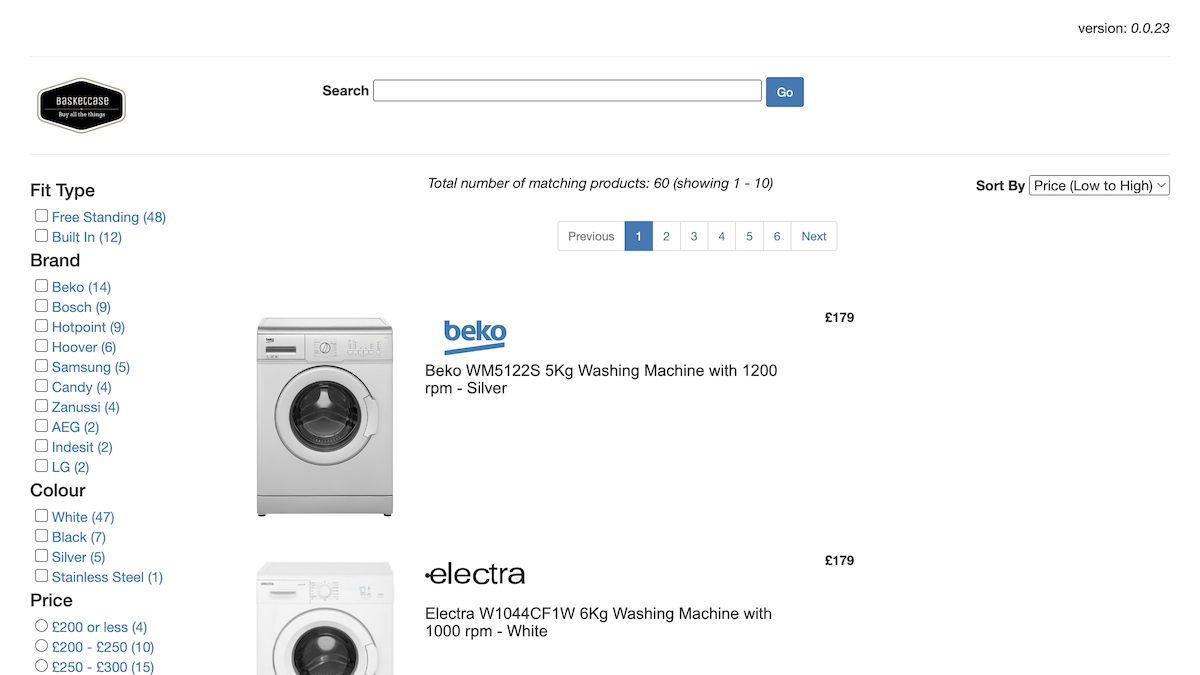
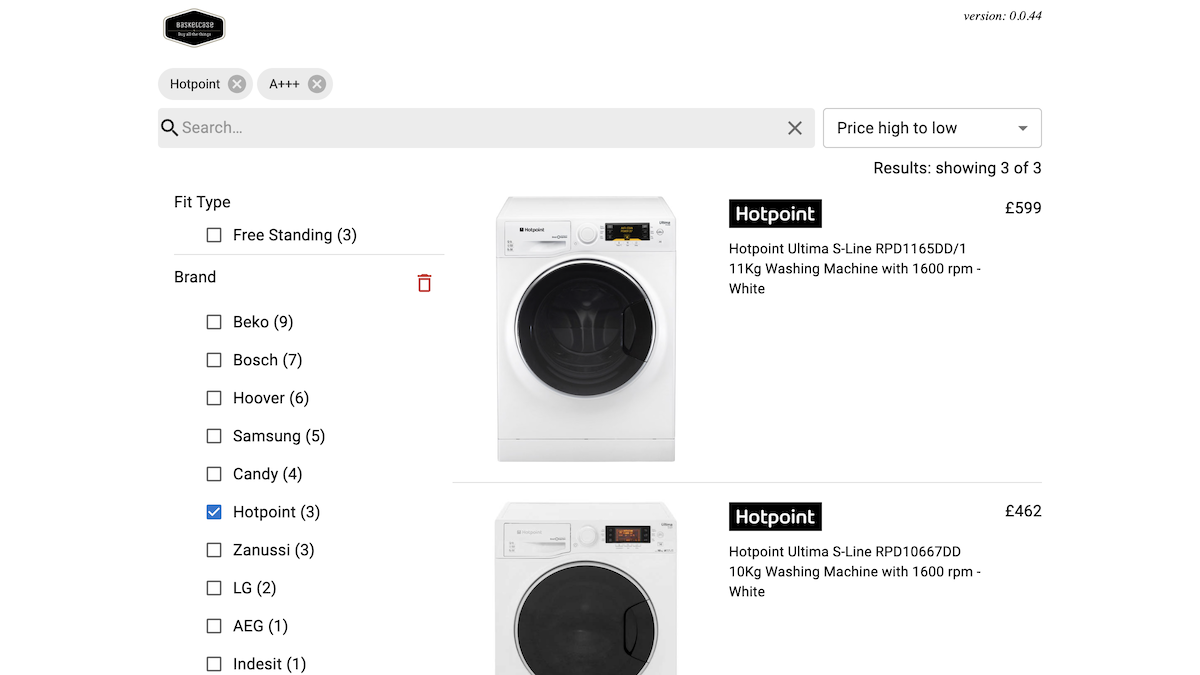
Update BasketCase to showcase basketcase-react primarily

diff --git a/src/data/basketcase.ts b/src/data/basketcase.ts
@@ -1,20 +1,40 @@
 export default {
   title: "Basket Case",
   repo: "BasketCase",
-  repoLink: "https://github.com/taylorjg/BasketCase",
-  website: "https://taylorjg.github.io/BasketCase",
+  repoLink: "https://github.com/taylorjg/basketcase-react",
+  website: "https://taylorjg.github.io/basketcase-react",
   seeAlso: [
     {
       url: "https://github.com/taylorjg/basketcase-serverless",
-      name: "Serverless Backend",
+      name: "Serverless back end",
+    },
+    {
+      url: "https://github.com/taylorjg/BasketCase",
+      name: "Original AngularJS 1.x front end",
     },
   ],
-  technologies: ["JavaScript", "AngularJS 1.x", "Elasticsearch"],
+  technologies: [
+    "JavaScript",
+    "React",
+    "Vite and Vitest",
+    "Cypress",
+    "GitHub Actions",
+    "Node.js",
+    "Elasticsearch",
+    "Serverless Framework",
+  ],
   shortDescription:
-    "Simple online store selling washing machines with faceted navigation",
+    "Mock online store with faceted navigation built using React, Serverless Framework and Elasticsearch",
   longDescriptionMarkdown: `
-A simple online store selling washing machines. The section on the left hand
-side provides faceted navigation - implemented using Elasticsearch.
+A simple mock online store selling washing machines.
+
+This web app features a section on the left hand
+side (or a slide out panel on devices with a small screen)
+that provides faceted navigation - implemented using Elasticsearch.
+It also implements infinite scrolling to load more results and it updates
+the browser history as search/filter criteria are changed.
+
+Complete with unit tests, end-to-end tests and CI/CD via GitHub Actions.
   `,
   cardImage: {
     path: "screenshots/basketcase/card-image.webp",

diff --git a/src/data/index.ts b/src/data/index.ts
@@ -15,6 +15,7 @@ import fractalsWebGL from "./FractalsWebGL";
 import printPuz from "./print-puz-react-vite";
 
 const projects: Project[] = [
+  basketcase,
   sudokuBuster,
   shazizzle,
   dlxlibDemos,
@@ -24,7 +25,6 @@ const projects: Project[] = [
   repoTraffic,
   pegSolitaire,
   mastermind,
-  basketcase,
   versionInfo,
   sparklerGame,
   fractalsWebGL,
